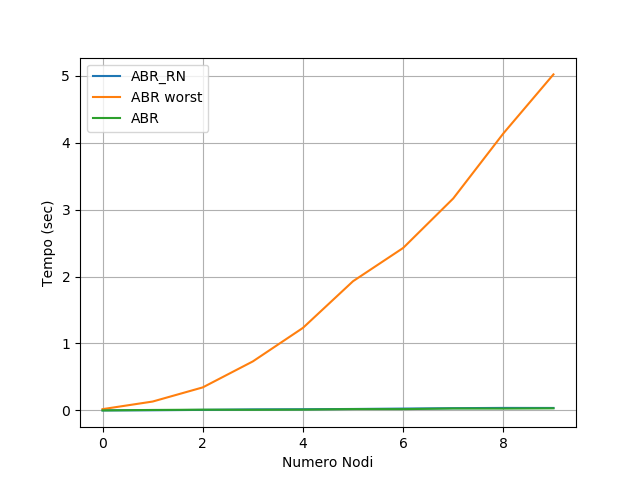
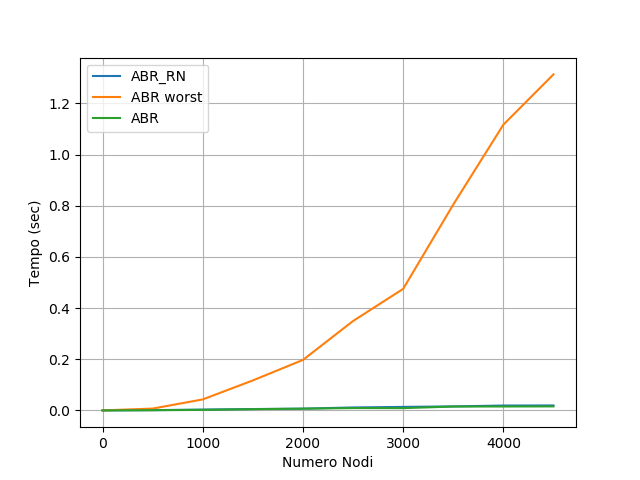
Aggiunto calcolo e plot dell'altezza

diff --git a/Main.py b/Main.py
@@ -4,22 +4,28 @@ import RandomArray as ra
 import matplotlib.pyplot as plt
 import time
 import numpy as np
+import sys
+
+sys.setrecursionlimit(1000000)
 
 print("Inserimento")
-
 tempoTotale = time.time()
 ABRtime = []
 ABRWorst = []
 ABR_RNtime = []
 badArrayOfNode = []
-
-count = 0
 tempTimeAbr = []
 tempTimeAbrWorst = []
 tempTimeabr_RN = []
+count = 0
 
-numOfTests = 10000
-for j in range(0, numOfTests, 100):
+heightABR = []
+heightABRWorst = []
+heightABR_RN = []
+numberOfNodes = []
+
+numOfTests = 5000#10000
+for j in range(0, numOfTests, 50):
     print("Parliamo di ", j, "/", numOfTests, "%", j * 100 / numOfTests)  # , end=' e ci mette ')
 
     Tabr = abr.ABR()  # Albero br
@@ -46,7 +52,7 @@ for j in range(0, numOfTests, 100):
     tempTimeabr_RN.append(time.time() - startTime)
 
     count += 1
-    if count % 10 == 0 or j == numOfTests:
+    if count % 10 == 0 or j == numOfTests or j == 0:
         tempABR = 0
         tempABRW = 0
         tempABR_RN = 0
@@ -61,15 +67,17 @@ for j in range(0, numOfTests, 100):
         tempTimeAbr = []
         tempTimeAbrWorst = []
         tempTimeabr_RN = []
+        numberOfNodes.append(j)
+        heightABR.append(Tabr.heightRecursive(Tabr.root))
+        heightABR_RN.append(Tabr_RN.heightRecursive(Tabr_RN.root))
         print("Temp variables refreshed")
-
-t = np.arange(0, len(ABRtime))
 print(100, "%!!!!!!!")
 
+
 # Inserimento: Plot con tutti e tre
-plt.plot(t, ABR_RNtime, label="ABR_RN")
-plt.plot(t, ABRWorst, label="ABR worst")
-plt.plot(t, ABRtime, label="ABR")
+plt.plot(numberOfNodes, ABR_RNtime, label="ABR_RN")
+plt.plot(numberOfNodes, ABRWorst, label="ABR worst")
+plt.plot(numberOfNodes, ABRtime, label="ABR")
 plt.legend()
 plt.xlabel('Numero Nodi')
 plt.ylabel('Tempo (sec)')
@@ -79,14 +87,26 @@ plt.savefig('abrC_W_RN.png', dpi=100)
 plt.show()
 
 # Inserimento: Plot zoom su Abr e Abr_RN
-plt.plot(t, ABR_RNtime, label="ABR_RN")
-plt.plot(t, ABRtime, label="ABR")
+plt.plot(numberOfNodes, ABR_RNtime, label="ABR_RN")
+plt.plot(numberOfNodes, ABRtime, label="ABR")
 plt.legend()
-plt.xlabel('Numero Nodi (x1000)')
+plt.xlabel('Numero Nodi')
 plt.ylabel('Tempo (sec)')
 plt.grid()
 plt.draw()
 plt.savefig('abrC_RN.png', dpi=100)
+plt.show()
+
+
+# Altezza
+plt.plot(numberOfNodes, heightABR_RN, label="ABR_RN")
+plt.plot(numberOfNodes, heightABR, label="ABR")
+plt.legend()
+plt.xlabel('Numero nodi')
+plt.ylabel('Altezza')
+plt.grid()
+plt.draw()
+plt.savefig('Altezza Alberi', dpi=100)
 plt.show()
 
 print("Ci abbiamo impiegato ", time.time() - tempoTotale)

diff --git a/ABR.py b/ABR.py
@@ -89,6 +89,13 @@ class ABR:
             y = y.p
         return y
 
+    def heightRecursive(self, node):
+        def recursiveHeight(v):
+            if v == self.NIL:
+                return 0
+            else:
+                return max(recursiveHeight(v.left), recursiveHeight(v.right)) + 1
+        return recursiveHeight(node) - 1
 
 class Node:
     def __init__(self, key):
@@ -96,3 +103,11 @@ class Node:
         self.p = None
         self.left = None
         self.right = None
+
+if __name__ == "__main__":
+    T = ABR()
+    # collectionOfNode = ra.randomArray(100)
+    for i in range(0, 10):
+        #print("nodo", i)
+        T.insert(i + 1)
+    print(T.heightRecursive(T.root))

diff --git a/ABR_RN.py b/ABR_RN.py
@@ -133,6 +133,13 @@ class ABR_RN:
         y.right = x
         x.p = y
 
+    def heightRecursive(self, node):
+        def recursiveHeight(v):
+            if v == self.NIL:
+                return 0
+            else:
+                return max(recursiveHeight(v.left), recursiveHeight(v.right)) + 1
+        return recursiveHeight(node) - 1
 
 class Node:
     def __init__(self, key):
